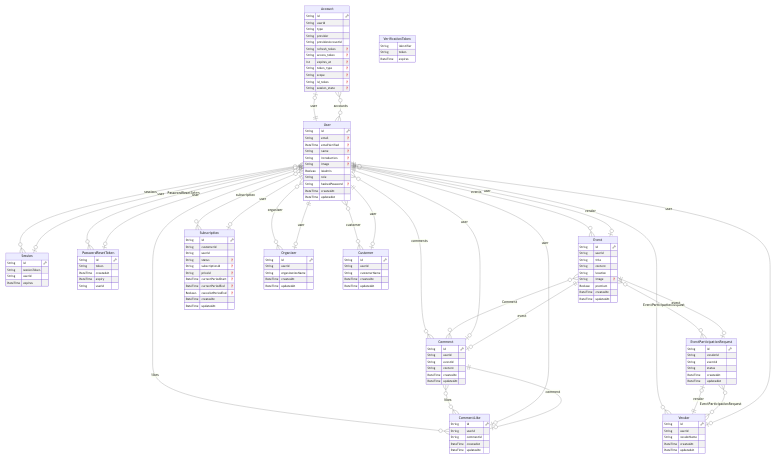
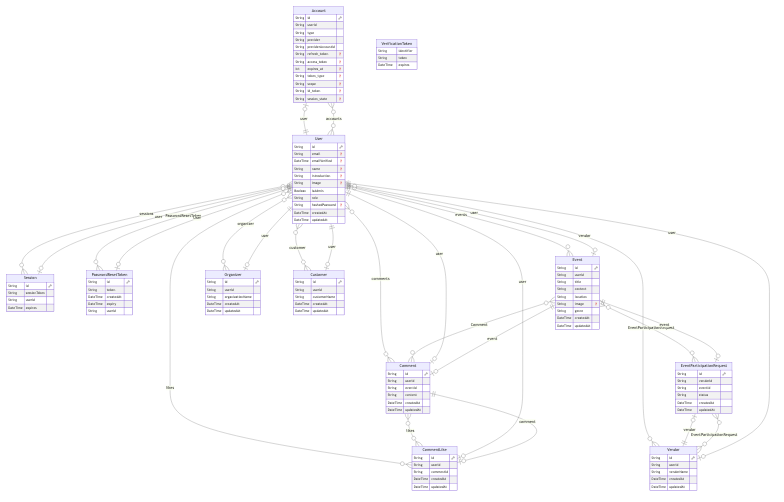
cr

diff --git a/docs/ERD.md b/docs/ERD.md
@@ -88,21 +88,6 @@ erDiagram
     }
   
 
-  "Subscription" {
-    String id "🗝"
-    String customerId 
-    String userId 
-    String status "❓"
-    String subscriptionId "❓"
-    String priceId "❓"
-    DateTime currentPeriodStart "❓"
-    DateTime currentPeriodEnd "❓"
-    Boolean cancelAtPeriodEnd "❓"
-    DateTime createdAt 
-    DateTime updatedAt 
-    }
-  
-
   "Organizer" {
     String id "🗝"
     String userId 
@@ -147,7 +132,6 @@ erDiagram
     "User" o{--}o "Event" : "events"
     "User" o{--}o "Comment" : "comments"
     "User" o{--}o "CommentLike" : "likes"
-    "User" o{--}o "Subscription" : "subscription"
     "User" o{--}o "Organizer" : "organizer"
     "User" o{--}o "Vendor" : "vendor"
     "User" o{--}o "Customer" : "customer"
@@ -160,7 +144,6 @@ erDiagram
     "Comment" o|--|| "Event" : "event"
     "CommentLike" o|--|| "User" : "user"
     "CommentLike" o|--|| "Comment" : "comment"
-    "Subscription" o|--|| "User" : "user"
     "Organizer" o|--|| "User" : "user"
     "Vendor" o{--}o "EventParticipationRequest" : "EventParticipationRequest"
     "Vendor" o|--|| "User" : "user"
